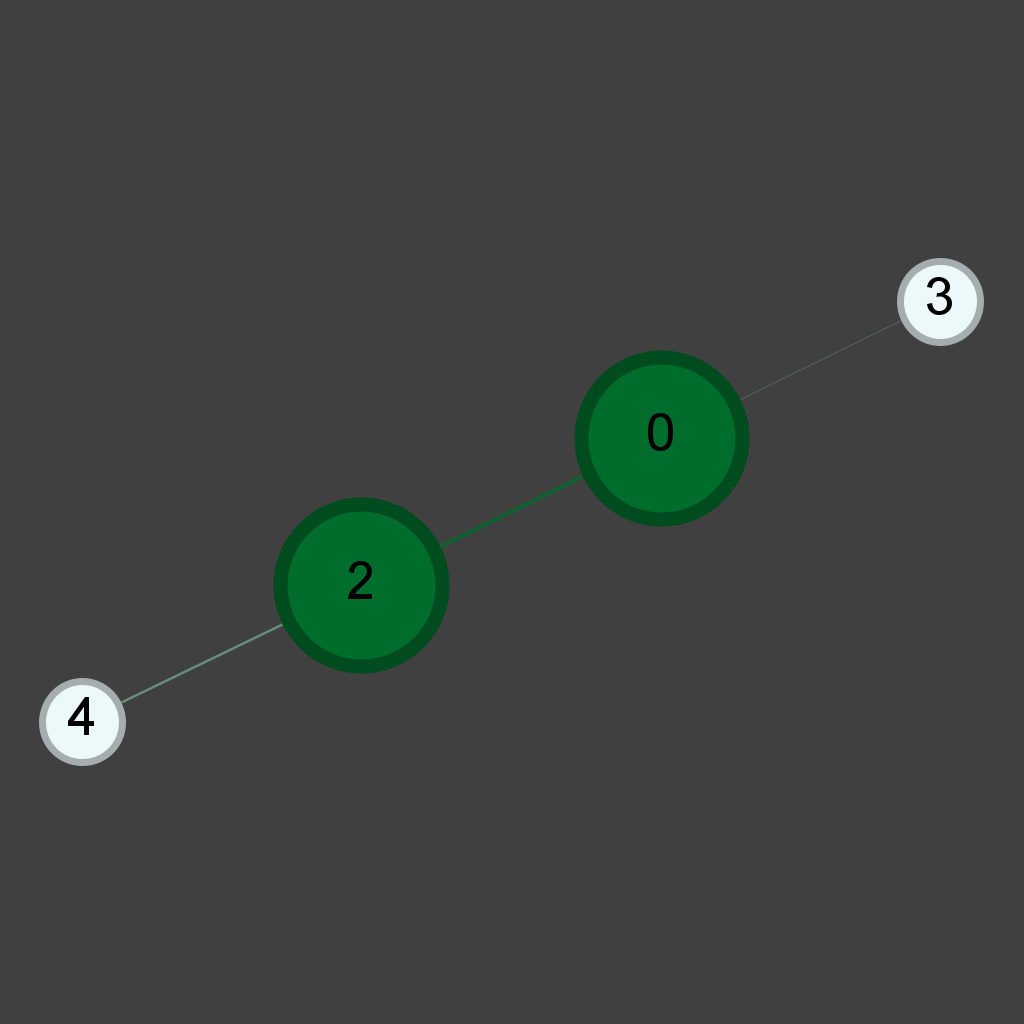
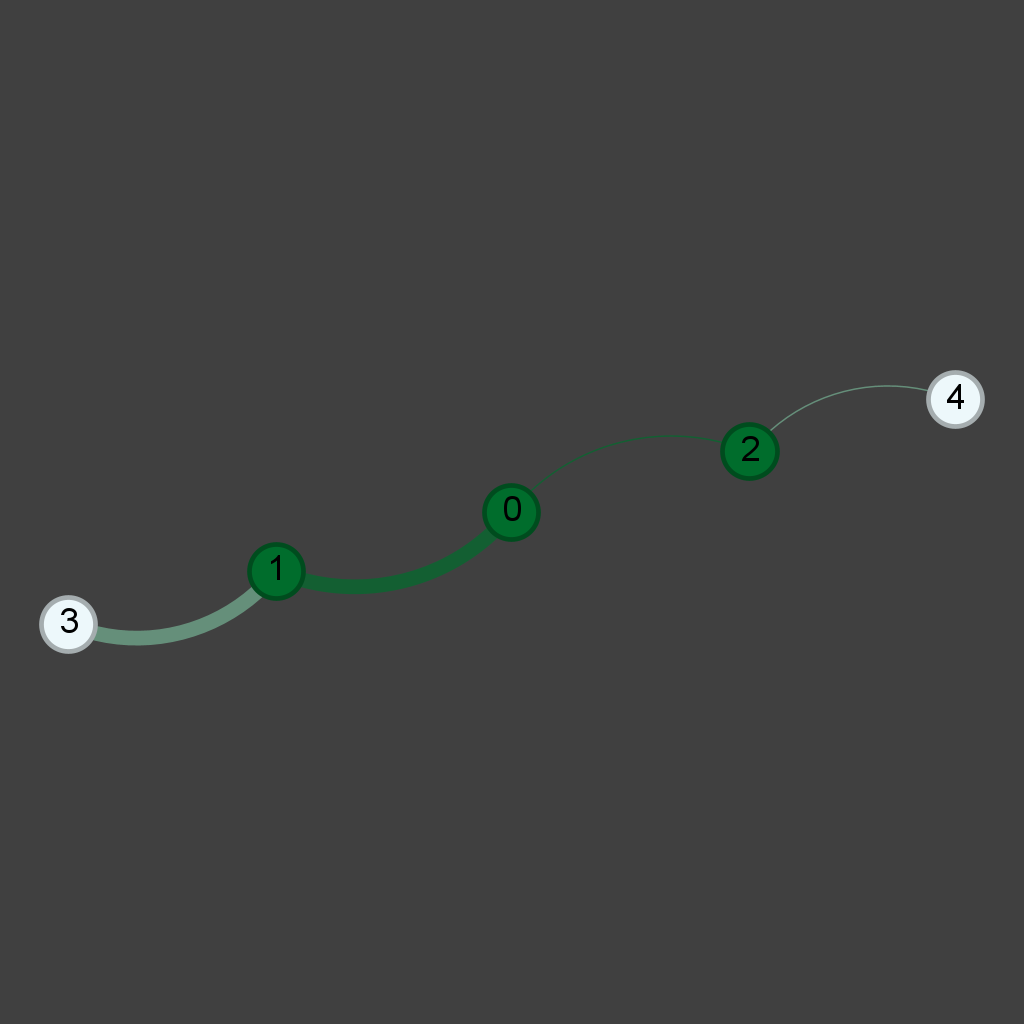
Corrección de algoritmo de Prim.

Changed region(s): [[0.0312, 0.3438, 0.7812, 0.75], [0.875, 0.25, 0.9688, 0.4375]]

diff --git a/Graphcore.py b/Graphcore.py
@@ -238,7 +238,7 @@ class Graf(nx.Graph): # sobre escribo mi clase grafo de graph
     u = 0                             # Empiezo con el nodo 0.
     H.add_node(u)
     aristas = sorted(                 # Obtengo las aristas ordenadas que conectan con u.
-        [ari for ari in list(self.edges.data("weight", default=1)) if ari[0] == u],
+        [ari for ari in list(self.edges.data("weight", default=1)) if ari[0] == u or ari[1] == u],
         #^Añado ari, para cada arista en la lista (las aristas de G con el dato de peso, si no tiene por default es 1), tal que se relacione con u.
         key = lambda n:n[2]
         )
@@ -250,7 +250,7 @@ class Graf(nx.Graph): # sobre escribo mi clase grafo de graph
         H.add_node(v)
         H.add_edge(u,v,weight = a[2])
         aristas = sorted( aristas +   # Actualizo la lista agregando las aristas salientes de v.
-            [ari for ari in list(self.edges.data("weight", default=1)) if ari[0] == v],
+            [ari for ari in list(self.edges.data("weight", default=1)) if ari[0] == v or ari[1] == v],
             key = lambda n:n[2]
             )
       a = aristas.pop(0)              # tomo la siguiente arista de menor peso.